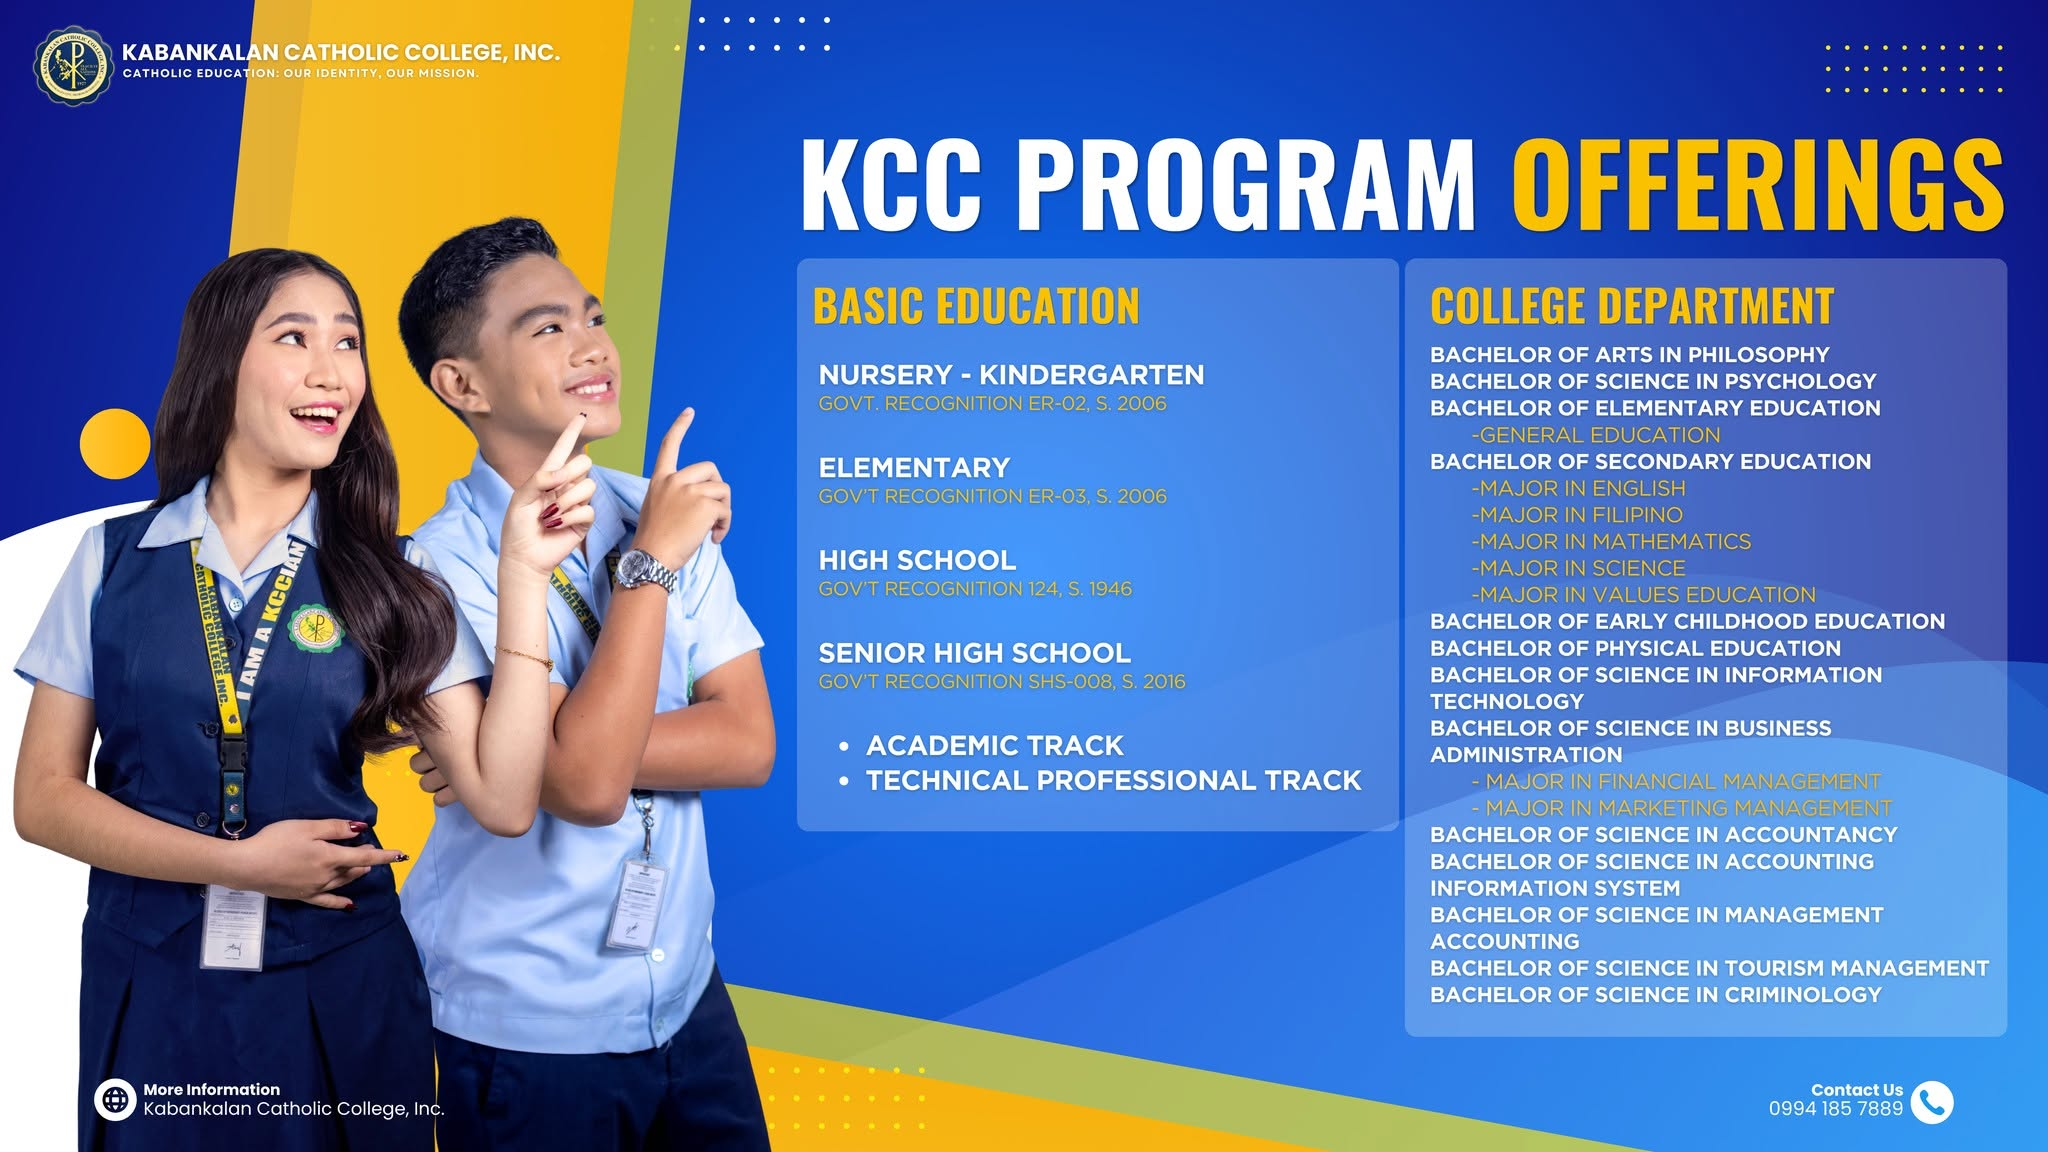
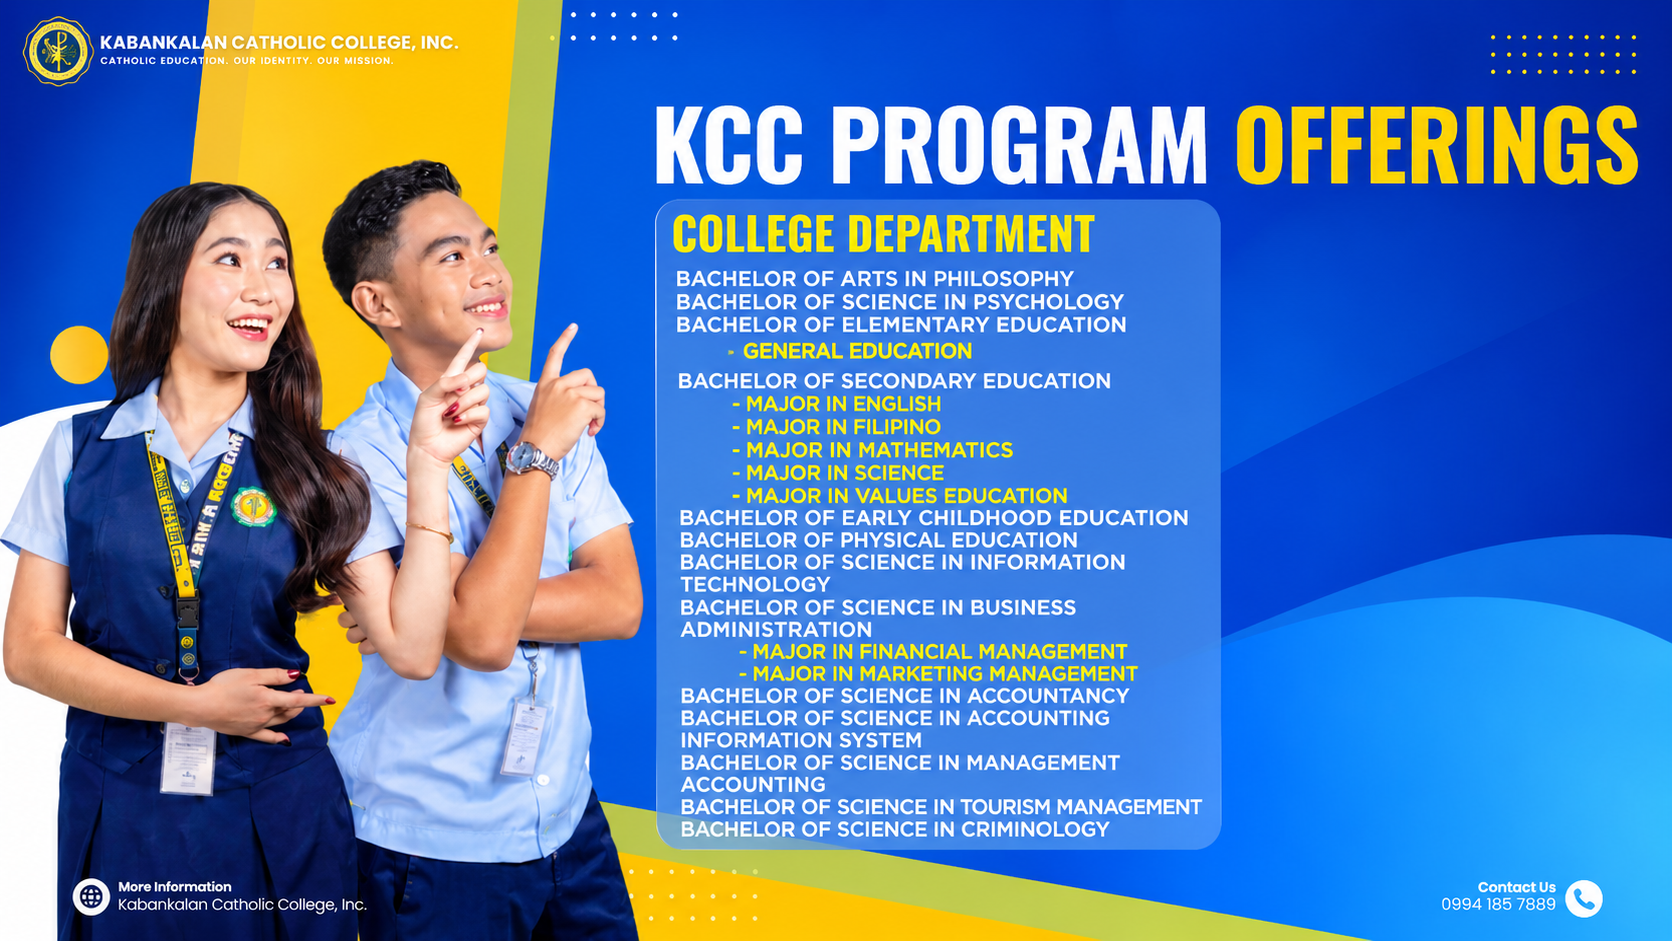
initial commit

diff --git a/index.html b/index.html
@@ -3,7 +3,7 @@
 <head>
   <meta charset="utf-8">
   <meta name="viewport" content="width=device-width, initial-scale=1">
-  <title>Kabankalan Catholic College, Inc. | Shaping Minds, Building Character</title>
+  <title>Kabankalan Catholic College, Inc.</title>
   <meta name="description" content="Kabankalan Catholic College, Inc. in Kabankalan City, Negros Occidental. Catholic education, student development and academic excellence.">
 
   <!-- Favicons -->
@@ -55,7 +55,7 @@
             <li class="nav-item"><a class="nav-link" href="#news">News &amp; Events</a></li>
             <li class="nav-item"><a class="nav-link" href="#contact">Contact</a></li>
           </ul>
-          <a href="#admissions" class="btn-kcc btn-apply ms-xl-3 mt-3 mt-xl-0">Apply Now</a>
+          <a href="#admissions" class="btn-kcc btn-apply ms-xl-3 mt-3 mt-xl-0">Enroll Now</a>
         </div>
 
       </div>
@@ -110,7 +110,7 @@
           </div>
           <div class="col-lg-7" data-aos="fade-left">
             <h3 class="mb-3">Kabankalan Catholic College, Inc.</h3>
-            <p>Kabankalan Catholic College, Inc. (KCC) is a Catholic educational institution located in Kabankalan City, Negros Occidental. Its official seal bears the Chi-Rho symbol and the call of Matthew 28:19, <em>&ldquo;Teach ye all nations.&rdquo;</em></p>
+            <p>Founded in 1927, Kabankalan Catholic College has served as the home of Catholic education in Kabankalan City, Negros Occidental. For close to a century, KCC has shaped graduates who carry with them strong academics, solid values, and a heart for service. <em>&ldquo;Teach ye all nations.&rdquo;</em></p>
 
             <div class="row g-3 mt-2">
               <div class="col-sm-6"><div class="vm-card">
@@ -137,15 +137,7 @@
                   Academy. In 1953, the Columban Fathers took
                   over the school and transferred it near the
                   church. In 1963–1964, it expanded by offering
-                  college and elementary education.
-
-Over the years, KCC experienced changes in leadership, school development, 
-and challenges, including the fire in 1987 that destroyed several buildings.
-In 1988, Kabankalan became a diocese. The school continued to grow through the
- support of religious congregations and church leaders.
-
-Today, KCC continues to provide quality Catholic education, promote Christian values,
- and develop responsible individuals who can contribute positively to society.</p>
+                  college and elementary education.</p>
               </div></div>
             </div>
           </div>
@@ -164,7 +156,7 @@ Today, KCC continues to provide quality Catholic education, promote Christian va
         <div class="row gy-4 justify-content-center">
           <div class="col-md-6 col-lg-4" data-aos="fade-up" data-aos-delay="100">
             <article class="program-card">
-              <div class="img-wrap"><img src="assets/img/programs/senior-high.jpg" alt="Senior High School placeholder image" loading="lazy"></div>
+              <div class="img-wrap"><img src="assets/img/programs/basic-education.jpg" alt="Senior High School placeholder image" loading="lazy"></div>
               <div class="body">
                 <h3>Basic Education</h3>
                 <p>
@@ -291,12 +283,11 @@ Today, KCC continues to provide quality Catholic education, promote Christian va
           <div class="swiper-wrapper">
             <div class="swiper-slide"><article class="news-card">
               <img src="assets/img/events/news-1.jpg" alt="Sample announcement 1" loading="lazy">
-              <div class="body"><span class="date"><i class="bi bi-calendar-event"></i> June 11, 2026</span>
+              <div class="body"><span class="date"><i class="bi bi-calendar-event"></i> November 19, 2026</span>
                 <h3>Connecting the KCC Community Through One Platform</h3>
                 <p>Kabankalan Catholic College, Inc. proudly launches its official website, providing a modern and accessible platform that brings the entire KCC community together.
 Stay updated with the latest news, announcements, events, academic information, enrollment updates, and campus activities. Whether you are a student, parent, alumnus, faculty member, staff member, or stakeholder, the KCC website serves as your reliable source of information and connection.
-This milestone reflects our continued commitment to quality Catholic education, innovation, and excellence in service as we embrace new ways of engaging with our community.
-Visit kcc.edu.ph and discover the new digital home of Kabankalan Catholic College, Inc.</p>
+</p>
                 <a href="#news" class="learn-more"></i></a></div></article></div>
             <div class="swiper-slide"><article class="news-card">
               <img src="assets/img/events/news-2.jpg" alt="Sample announcement 2" loading="lazy">
@@ -304,21 +295,14 @@ Visit kcc.edu.ph and discover the new digital home of Kabankalan Catholic Colleg
                 <h3>Future Developement Opportunities</h3>
                 <p>Are you interested in becoming part of the Kabankalan Catholic College, Inc. community?
 The Human Resource and Organization Development (HROD) Office welcomes interested individuals to submit their applications and explore employment opportunities at KCC.
-Please be guided by the following submission procedures:
+Please be guided by the following submission procedures:<br>
 📌 For Online Submission:
 Interested applicants only need to scan and complete the designated Google Form and upload their updated resume.
-https://docs.google.com/.../1FAIpQLSeJvckhKD1.../viewform...
-📌 For Face-to-Face Submission and Invited Applicants:
-Applicants who prefer to personally submit their applications at the HROD Office, as well as those who have been invited for further application processing, are required to prepare the complete documents listed in the accompanying announcement.
-We encourage all interested applicants to carefully review the requirements and ensure that their documents are complete when requested.
-We look forward to welcoming potential candidates to the KCC community!
-For inquiries and further concerns, you may reach the HROD Office through the following email address:
-📧 career.kcchr@gmail.com
-#KabankalanCatholicCollege #KCCHiring #EmploymentOpportunities #HROD</p>
+https://docs.google.com/.../1FAIpQLSeJvckhKD1.../viewform...</p>
                 <a href="#news" class="learn-more"></i></a></div></article></div>
             <div class="swiper-slide"><article class="news-card">
               <img src="assets/img/events/news-3.jpg" alt="Sample announcement 3" loading="lazy">
-              <div class="body"><span class="date"><i class="bi bi-calendar-event"></i> June 2, 2026</span>
+              <div class="body"><span class="date"><i class="bi bi-calendar-event"></i> November 19, 2026</span>
                 <h3>One School, Many Ways to Stay Connected</h3>
                 <p>In a world where information moves fast, staying connected has never been more important. At Kabankalan Catholic College, we are committed to keeping our students, parents, alumni, and stakeholders informed, engaged, and inspired through our official Facebook pages.
 
@@ -339,32 +323,6 @@ From important announcements and enrollment updates to academic achievements, st
           <a href="#contact" class="btn-kcc">Admission Inquiry</a>
           <a href="#academics" class="btn-kcc-outline">View Programs</a>
         </div>
-        <div class="info-box">
-          <span class="ph-tag"></span><br class="d-sm-none">
-Looking for a school that will shape your 𝐤𝐧𝐨𝐰𝐥𝐞𝐝𝐠𝐞, 𝐜𝐡𝐚𝐫𝐚𝐜𝐭𝐞𝐫, 𝐚𝐧𝐝 𝐜𝐨𝐦𝐩𝐞𝐭𝐞𝐧𝐜𝐞? At Kabankalan Catholic College, we offer quality education from 𝐁𝐚𝐬𝐢𝐜 𝐄𝐝𝐮𝐜𝐚𝐭𝐢𝐨𝐧 𝐭𝐨 𝐂𝐨𝐥𝐥𝐞𝐠𝐞, preparing you for real-world success.<br>
-𝐂𝐡𝐨𝐨𝐬𝐞 𝐚 𝐩𝐚𝐭𝐡 𝐭𝐡𝐚𝐭 𝐟𝐢𝐭𝐬 𝐲𝐨𝐮𝐫 𝐩𝐚𝐬𝐬𝐢𝐨𝐧:<br>
-✔ Basic Education (Kindergarten to Senior High School)<br>
-✔ Arts & Sciences<br>
-✔ Education<br>
-✔ Business & Management<br>
-✔ Information Technology<br>
-✔ Criminology<br>
- 𝐄𝐧𝐫𝐨𝐥𝐥𝐦𝐞𝐧𝐭 𝐢𝐬 𝐍𝐎𝐖 𝐎𝐏𝐄𝐍!<br>
-We are currently accepting:<br>
-✅ Incoming First-Year College Students<br>
-✅ Kindergarten Enrollees<br>
-✅ Incoming Grade 1<br>
-✅ Incoming Grade 7 (Junior High School)<br>
-✅ Incoming Grade 11 (Senior High School)<br>
-Take the first step toward your dream and be part of a community that values excellence, faith, and service.<br>
-📍 Please visit the campus or 𝐜𝐨𝐧𝐭𝐚𝐜𝐭 𝐨𝐮𝐫 𝐫𝐞𝐠𝐢𝐬𝐭𝐫𝐚𝐫'𝐬 𝐨𝐟𝐟𝐢𝐜𝐞 𝐚𝐭 𝟒𝟕𝟏𝟐-𝟓𝟏𝟖<br>
-💬 Tag a friend who’s planning to enroll this year!<br>
-📩 Message us for inquiries!<br>
-Be inspired. Be next. Make the smart move.<br>
-𝐂𝐡𝐨𝐨𝐬𝐞 𝐪𝐮𝐚𝐥𝐢𝐭𝐲. 𝐂𝐡𝐨𝐨𝐬𝐞 𝐊𝐂𝐂.<br>
-#EnrollAtKCC <br>
-        </div>
-      </div>
     </section>
     
     
@@ -378,14 +336,15 @@ Be inspired. Be next. Make the smart move.<br>
         <div class="row gy-4">
           <div class="col-lg-5" data-aos="fade-up">
             <div class="info-card"><i class="bi bi-geo-alt"></i><div><h4>School Address</h4>
-              <p>Kabankalan City, Negros Occidental<br><span class="ph-tag">Placeholder</span> [Add full street address]</p></div></div>
-            <div class="info-card"><i class="bi bi-telephone"></i><div><h4>Contact Number</h4>
-              <p><span class="ph-tag">Placeholder</span> [Add official contact number]</p></div></div>
+              <p>Guanzon St., Brgy. 1<br>
+Kabankalan City, Negros Occidental 6111</p></div></div>
             <div class="info-card"><i class="bi bi-envelope"></i><div><h4>Official Email</h4>
-              <p><span class="ph-tag">Placeholder</span> [Add official email address]</p></div></div>
+              <p> kcc_1927@yahoo.com</p></div></div>
+            <div class="info-card"><i class="bi bi-telephone"></i><div><h4>Phone</h4>
+              <p> (032) 4712-479</p></div></div>
             <div class="info-card"><i class="bi bi-facebook"></i><div><h4>Facebook Page</h4>
               <!-- REPLACE: put the official KCC Facebook page URL in the href. -->
-              <p><a href="https://www.facebook.com/" target="_blank" rel="noopener">Official Facebook page</a> <span class="ph-tag">Replace link</span></p></div></div>
+              <p><a href="https://www.facebook.com/KCCInc1927" target="_blank" rel="noopener">Kabankalan Catholic College, Inc.</a> </p></div></div>
             <div class="map-wrap">
               <!-- REPLACE: verify the pin, then paste the official Google Maps embed link. -->
               <iframe title="Map of Kabankalan Catholic College" loading="lazy" referrerpolicy="no-referrer-when-downgrade"
@@ -401,7 +360,7 @@ Be inspired. Be next. Make the smart move.<br>
                 <div class="col-md-6"><label for="name" class="form-label">Full name</label><input type="text" id="name" class="form-control" required></div>
                 <div class="col-md-6"><label for="email" class="form-label">Email</label><input type="email" id="email" class="form-control" required></div>
                 <div class="col-12"><label for="level" class="form-label">Level of interest</label>
-                  <select id="level" class="form-select"><option>Senior High School</option><option>College</option><option>Other / Not sure</option></select></div>
+                  <select id="level" class="form-select"><option>College</option><option>Senior High School</option><option>High School</option><option>Elementary</option><option>Nursery</option></select></div>
                 <div class="col-12"><label for="message" class="form-label">Message</label><textarea id="message" rows="5" class="form-control" required></textarea></div>
                 <div class="col-12">
                   <div id="formMsg" class="alert alert-success d-none" role="status">Thank you! Your inquiry was recorded (demo only).</div>
@@ -427,8 +386,6 @@ Be inspired. Be next. Make the smart move.<br>
           <div class="social mt-3">
             <!-- REPLACE: use the official social media links. -->
             <a href="https://www.facebook.com/" target="_blank" rel="noopener" aria-label="Facebook"><i class="bi bi-facebook"></i></a>
-            <a href="https://www.youtube.com/" target="_blank" rel="noopener" aria-label="YouTube"><i class="bi bi-youtube"></i></a>
-            <a href="https://www.instagram.com/" target="_blank" rel="noopener" aria-label="Instagram"><i class="bi bi-instagram"></i></a>
           </div>
         </div>
         <div class="col-lg-2 col-6">
@@ -449,14 +406,13 @@ Be inspired. Be next. Make the smart move.<br>
           <h4>Contact</h4>
           <ul>
             <li><i class="bi bi-geo-alt me-2"></i>Kabankalan City, Negros Occidental</li>
-            <li><i class="bi bi-telephone me-2"></i>[Contact number placeholder]</li>
-            <li><i class="bi bi-envelope me-2"></i>[Official email placeholder]</li>
+            <li><i class="bi bi-telephone me-2"></i>(032) 4712-479</li>
+            <li><i class="bi bi-envelope me-2"></i>kcc_1927@yahoo.com</li>
           </ul>
         </div>
       </div>
       <div class="copyright">
         &copy; <span id="year">2026</span> Kabankalan Catholic College, Inc. All rights reserved.
-        <small>Student project landing page. Not the official school website.</small>
       </div>
     </div>
   </footer>

diff --git a/assets/css/main.css b/assets/css/main.css
@@ -76,7 +76,7 @@ img { max-width: 100%; }
 /* =========================================================
    2. Header / navigation
    ========================================================= */
-.site-header { background: #fff; border-bottom: 3px solid var(--gold); box-shadow: 0 2px 12px rgba(16,42,67,.08); z-index: 1030; }
+.site-header { background: white; border-bottom: 3px solid var(--gold); box-shadow: 0 2px 12px rgba(16,42,67,.08); z-index: 1030; }
 .site-header .navbar { padding: 8px 0; }
 .navbar-brand { gap: 10px; margin-right: 0; }
 .brand-text { font-family: var(--font-heading); font-weight: 700; font-size: 17px; line-height: 1.15; color: var(--navy); white-space: normal; }
